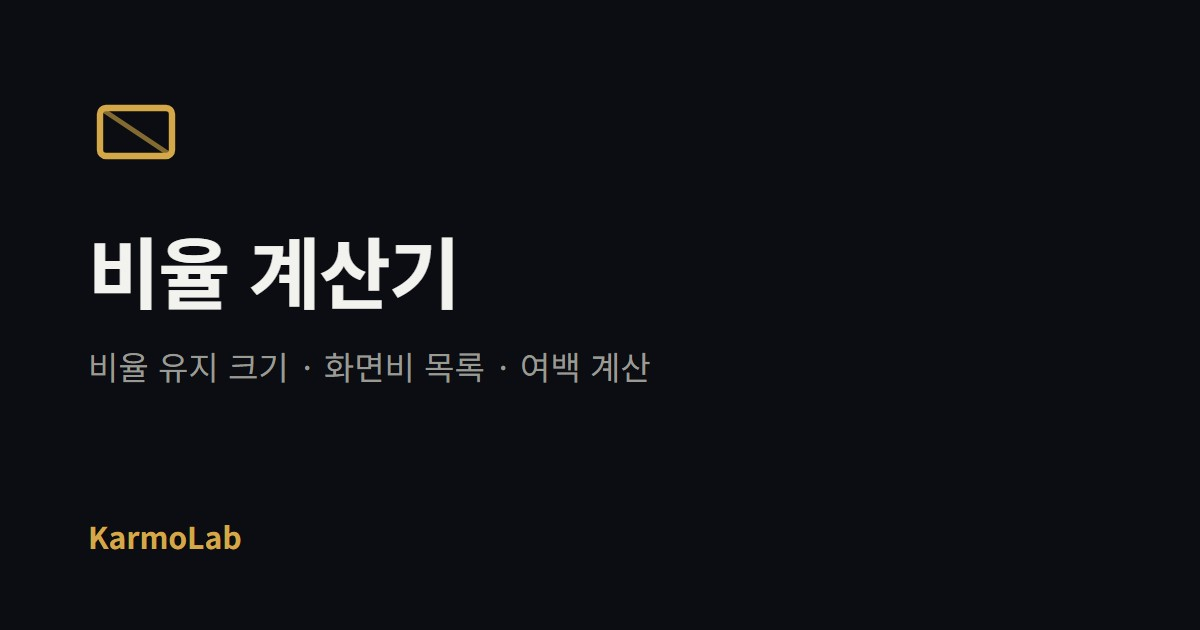
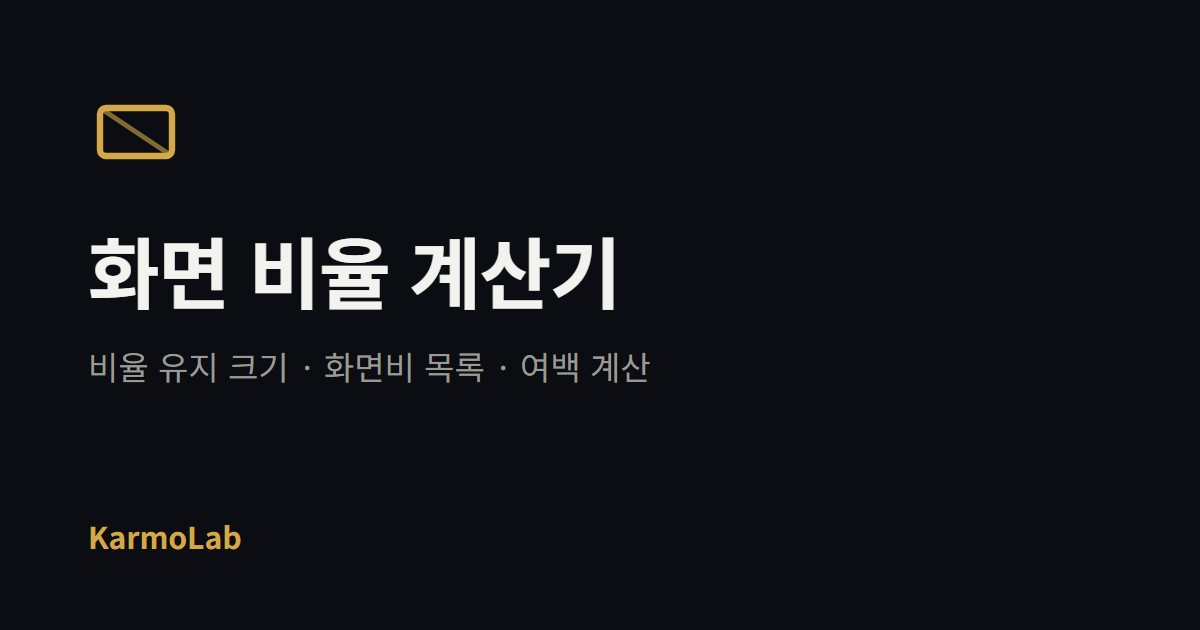
feat(karmolab): 도구 셋의 이름을 사람들이 실제로 치는 말로 바꿨다 (KL-089)
검색으로 도구를 만나게 하려면 이름이 찾는 말과 같아야 한다.

- 문페이즈 → 달 위상 (한국에서 「문페이즈」로 치는 사람은 거의 없다)
- 비율 계산기 → 화면 비율 계산기 (16:9 같은 것을 다루니 「화면」이 있어야 걸린다)
- 뽑기 → 랜덤 뽑기 (「뽑기」만으로는 너무 넓다)

이름은 목록·페이지 제목·공유 카드가 모두 같은 곳을 보므로 카드도 함께 다시 그렸다.

검증: 도구 위젯 검사 87개 통과(이름이 두 곳에서 갈라지면 여기서 걸린다) · 카드 3장만 재렌더.

Changed region(s): [[0.0617, 0.3619, 0.5242, 0.5127]]

diff --git a/apps/karmolab/src/widgets-lazy-meta.ts b/apps/karmolab/src/widgets-lazy-meta.ts
@@ -500,7 +500,7 @@ window.KARMOLAB_LAZY_META = [
   },
   {
     id: 'draw',
-    title: '뽑기',
+    title: '랜덤 뽑기',
     category: 'tool',
     desc: '로또 번호·사다리타기·추첨과 팀 나누기를 한 곳에서',
     layout: 'wide',
@@ -759,7 +759,7 @@ window.KARMOLAB_LAZY_META = [
     id: 'aspect',
     hidden: true, // 「calc」 위젯의 탭으로 합쳐짐 — 검색 유입 주소는 유지
     bundle: 'calc', // 이 도구를 부르면 묶음의 이 탭으로 간다
-    title: '비율 계산기',
+    title: '화면 비율 계산기',
     category: 'tool',
     desc: '가로·세로 비율을 유지한 채 크기를 계산합니다. 화면비 목록과 여백 계산 포함',
     layout: 'form',
@@ -1117,7 +1117,7 @@ window.KARMOLAB_LAZY_META = [
   { id: 'fontgacha', title: '폰트가챠', category: 'play', desc: '가챠로 폰트를 바꿉니다', hidden: true, layout: 'form', icon: '', lazyScriptPaths: ['font'] },
   { id: 'hacker', title: '해커', category: 'play', desc: '키보드를 연타해 해커 느낌의 텍스트를 출력합니다', hidden: true, layout: 'form', icon: '', lazyScriptPaths: ['hacker'] },
   { id: 'hourglass', title: '모래시계', category: 'tool', desc: '모래시계 타이머를 실행합니다', hidden: true, layout: 'form', icon: '', lazyScriptPaths: ['hourglass'] },
-  { id: 'moon', title: '문페이즈', category: 'tool', desc: '오늘의 달 위상을 확인합니다', hidden: true, layout: 'form', icon: '', lazyScriptPaths: ['moon'] },
+  { id: 'moon', title: '달 위상', category: 'tool', desc: '오늘의 달 위상을 확인합니다', hidden: true, layout: 'form', icon: '', lazyScriptPaths: ['moon'] },
   { id: 'news', title: '뉴스', category: 'play', desc: '가짜 뉴스 헤드라인을 생성합니다', hidden: true, layout: 'form', icon: '', lazyScriptPaths: ['news'] },
   { id: 'particle', title: '파티클', category: 'play', desc: '마우스로 파티클을 움직이고 클릭으로 폭발시킵니다', hidden: true, layout: 'form', icon: '', lazyScriptPaths: ['particle'] },
   { id: 'password', title: '비번', category: 'tool', desc: '4자리 비밀번호를 힌트 보며 맞히는 놀이', hidden: true, layout: 'form', icon: '', lazyScriptPaths: ['password'] },

diff --git a/apps/karmolab/src/widgets/tools/aspect.ts b/apps/karmolab/src/widgets/tools/aspect.ts
@@ -21,7 +21,7 @@
 
   Toolbox.register({
     id: 'aspect',
-    title: '비율 계산기',
+    title: '화면 비율 계산기',
     category: 'tool',
     desc: '가로·세로 비율을 유지한 채 크기를 계산합니다. 화면비 목록과 여백 계산 포함',
     layout: 'form',

diff --git a/apps/karmolab/src/widgets/tools/draw.ts b/apps/karmolab/src/widgets/tools/draw.ts
@@ -14,7 +14,7 @@
 
   Toolbox.register({
     id: 'draw',
-    title: '뽑기',
+    title: '랜덤 뽑기',
     category: 'tool',
     desc: '로또 번호·사다리타기·추첨과 팀 나누기를 한 곳에서',
     layout: 'wide',

diff --git a/apps/karmolab/src/widgets/moon.ts b/apps/karmolab/src/widgets/moon.ts
@@ -1,7 +1,7 @@
 (function (): void {
   Toolbox.register({
     id: 'moon',
-    title: '문페이즈',
+    title: '달 위상',
     category: 'tool',
     desc: '오늘의 달 위상을 확인합니다',
     layout: 'form',
